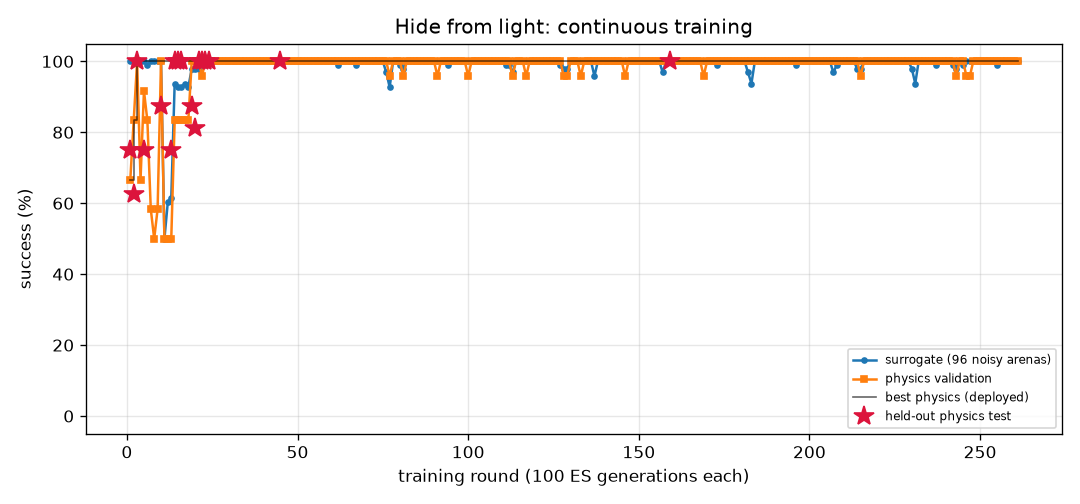
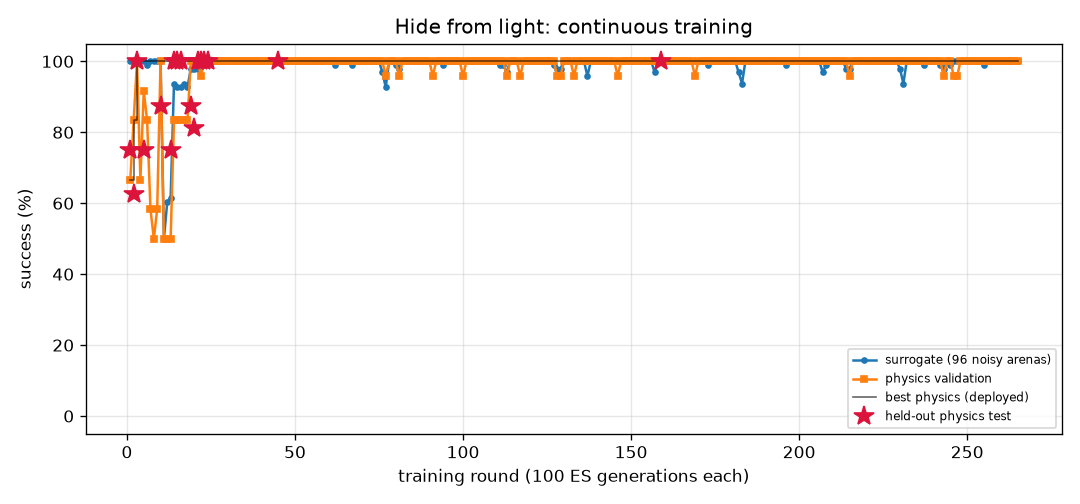
FlyLab: continuous training progress
- walk_forward: optimal, physics val 100% of 24, round 118
- turn: optimal, physics val 100% of 24, round 532
- goto: optimal, physics val 100% of 24, round 112
- odor_seek: optimal, physics val 100% of 24, round 107
- odor_avoid: optimal, physics val 100% of 24, round 531
- light_seek: optimal, physics val 100% of 24, round 297
- light_avoid: optimal, physics val 100% of 24, round 265

diff --git a/projects/09_flylab/training/light_avoid/REPORT.md b/projects/09_flylab/training/light_avoid/REPORT.md
@@ -1,14 +1,14 @@
 # Hide from light (`light_avoid`) — training report
 
-*Auto-generated by `train_brains.py`, last updated 2026-10-17T18:48:39.*
+*Auto-generated by `train_brains.py`, last updated 2026-10-18T12:55:45.*
 
 ![curve](curve.png)
 
 | | |
 |---|---|
-| rounds | 261 |
-| ES generations | 26100 |
-| physics runs | 6536 |
+| rounds | 265 |
+| ES generations | 26500 |
+| physics runs | 6632 |
 | status | **optimal** |
 | best brain | round 159: physics validation **100%** on 24 arenas, surrogate 100% |
 | held-out physics test | **100%** on 32 unseen arenas (95% CI 89%-100%) (errors: [14.4, 56.1, 58.0, 57.9, 57.5, 14.0, 14.4, 56.6, 56.8, 13.3, 14.1, 56.6, 57.6, 13.1, 57.3, 55.9, 57.2, 55.0, 55.2, 53.9, 55.2, 12.4, 53.8, 53.7, 14.1, 13.7, 55.0, 57.8, 56.2, 13.1, 52.8, 56.5]) |
@@ -17,10 +17,6 @@ Physics error per arena: mm gained away from source (> 6 without first approachi
 
 | round | level | gens | sigma | surrogate | physics val | val errors | test | note |
 |---:|---:|---:|---:|---:|---:|---|---:|---|
-| 222 | 3 | 22200 | 0.024 | 100% | 100% | [50.2, 55.2, 55.0, 51.4, 55.9, 52.0, 53.3, 14.5, 51.2, 13.5, 55.0, 55.8, 14.4, 53.3, 55.0, 52.1, 14.2, 56.1, 55.6, 14.4, 53.0, 55.1, 53.5, 55.2] |  |  |
-| 223 | 3 | 22300 | 0.024 | 100% | 100% | [53.8, 56.1, 56.2, 54.1, 52.0, 54.1, 56.1, 14.5, 47.7, 13.5, 53.8, 51.4, 14.4, 50.8, 56.0, 54.2, 14.2, 53.3, 56.0, 14.4, 53.6, 53.9, 56.3, 50.6] |  | restart from best |
-| 224 | 3 | 22400 | 0.024 | 100% | 100% | [47.3, 47.9, 47.5, 47.5, 48.7, 47.6, 45.2, 14.5, 45.9, 13.2, 49.0, 48.7, 14.4, 48.2, 47.5, 48.6, 14.2, 49.1, 47.7, 14.4, 46.3, 48.8, 46.1, 48.5] |  |  |
-| 225 | 3 | 22500 | 0.024 | 100% | 100% | [40.8, 43.3, 43.8, 39.9, 39.0, 38.6, 44.3, 14.5, 38.2, 13.3, 43.3, 38.2, 14.4, 41.0, 42.7, 41.3, 14.2, 38.5, 40.8, 14.4, 41.2, 42.5, 44.2, 37.2] |  |  |
 | 226 | 3 | 22600 | 0.024 | 100% | 100% | [47.5, 50.4, 50.7, 47.4, 46.6, 45.6, 50.7, 14.5, 42.3, 13.4, 44.9, 46.0, 14.4, 46.4, 50.6, 46.2, 14.2, 47.3, 50.6, 14.4, 45.3, 47.3, 49.8, 45.1] |  |  |
 | 227 | 3 | 22700 | 0.024 | 100% | 100% | [51.7, 53.5, 53.2, 51.6, 53.1, 52.6, 52.1, 14.5, 46.9, 13.5, 51.0, 52.8, 14.4, 52.4, 53.4, 50.8, 14.2, 53.4, 53.8, 14.4, 49.9, 52.4, 51.6, 52.4] |  | restart from best |
 | 228 | 3 | 22800 | 0.024 | 100% | 100% | [54.8, 59.5, 59.2, 55.7, 59.6, 55.9, 57.8, 14.5, 55.7, 13.3, 58.5, 59.4, 14.3, 58.3, 59.3, 54.3, 14.2, 60.0, 59.6, 14.4, 57.5, 58.7, 57.8, 58.9] |  |  |
@@ -57,3 +53,7 @@ Physics error per arena: mm gained away from source (> 6 without first approachi
 | 259 | 3 | 25900 | 0.024 | 100% | 100% | [47.8, 52.3, 51.9, 49.3, 53.4, 49.3, 50.1, 14.5, 50.6, 13.4, 52.4, 53.2, 14.4, 51.7, 52.1, 49.3, 14.2, 53.6, 52.6, 14.4, 46.1, 52.6, 49.9, 52.7] |  | restart from best |
 | 260 | 3 | 26000 | 0.024 | 100% | 100% | [38.4, 37.3, 35.3, 37.3, 38.6, 39.0, 35.1, 14.5, 35.1, 13.3, 39.3, 38.6, 14.4, 38.4, 35.4, 38.2, 14.2, 38.5, 38.4, 14.4, 40.3, 37.6, 33.3, 38.0] |  |  |
 | 261 | 3 | 26100 | 0.024 | 100% | 100% | [40.1, 42.6, 41.3, 42.0, 44.7, 42.4, 40.1, 14.5, 41.3, 13.2, 43.3, 44.6, 14.4, 44.7, 42.4, 42.5, 14.2, 44.7, 43.5, 14.4, 42.2, 43.8, 39.7, 44.0] |  |  |
+| 262 | 3 | 26200 | 0.024 | 100% | 100% | [50.2, 52.6, 52.8, 50.4, 49.0, 49.9, 52.8, 14.5, 45.8, 13.2, 47.4, 48.5, 14.4, 47.9, 52.8, 50.1, 14.2, 49.9, 52.7, 14.4, 49.6, 48.6, 52.3, 47.7] |  |  |
+| 263 | 3 | 26300 | 0.024 | 100% | 100% | [57.3, 60.8, 60.5, 57.7, 60.1, 57.0, 59.3, 14.5, 54.2, 13.3, 59.3, 59.9, 14.4, 57.4, 60.6, 56.4, 14.2, 60.6, 61.0, 14.4, 55.7, 59.3, 59.1, 59.3] |  | restart from best |
+| 264 | 3 | 26400 | 0.024 | 100% | 100% | [48.8, 49.9, 50.2, 48.3, 44.5, 47.7, 50.8, 14.5, 46.8, 13.4, 46.3, 44.6, 14.4, 45.2, 50.3, 48.1, 14.2, 46.2, 48.9, 14.4, 45.7, 47.4, 49.7, 43.0] |  |  |
+| 265 | 3 | 26500 | 0.024 | 100% | 100% | [58.9, 60.8, 60.6, 58.5, 59.4, 58.6, 59.7, 14.5, 56.7, 13.3, 59.8, 59.0, 14.4, 56.6, 60.8, 58.2, 14.2, 60.2, 61.1, 14.4, 56.4, 59.4, 59.4, 58.3] |  |  |

diff --git a/projects/09_flylab/training/light_seek/REPORT.md b/projects/09_flylab/training/light_seek/REPORT.md
@@ -1,14 +1,14 @@
 # Walk toward light (`light_seek`) — training report
 
-*Auto-generated by `train_brains.py`, last updated 2026-10-17T18:57:52.*
+*Auto-generated by `train_brains.py`, last updated 2026-10-18T12:38:41.*
 
 ![curve](curve.png)
 
 | | |
 |---|---|
-| rounds | 296 |
-| ES generations | 29600 |
-| physics runs | 3952 |
+| rounds | 297 |
+| ES generations | 29700 |
+| physics runs | 3976 |
 | status | **optimal** |
 | best brain | round 295: physics validation **100%** on 24 arenas, surrogate 100% |
 | held-out physics test | **100%** on 32 unseen arenas (95% CI 89%-100%) (errors: [0.58, 0.62, 0.61, 0.63, 0.65, 0.65, 0.73, 0.55, 0.64, 0.59, 0.59, 0.58, 0.69, 0.61, 0.59, 0.6, 0.6, 0.63, 0.59, 0.64, 0.61, 1.11, 0.62, 0.58, 0.58, 0.58, 0.67, 0.63, 0.58, 0.66, 0.67, 0.59]) |
@@ -17,7 +17,6 @@ Physics error per arena: mm from target at the end (< 1.5 and standing still = s
 
 | round | level | gens | sigma | surrogate | physics val | val errors | test | note |
 |---:|---:|---:|---:|---:|---:|---|---:|---|
-| 257 | 3 | 25700 | 0.024 | 100% | 100% | [0.63, 0.46, 0.53, 0.47, 0.45, 0.59, 0.65, 0.59, 0.56, 0.49, 0.42, 0.57, 0.43, 0.55, 0.42, 0.51, 0.54, 0.56, 0.54, 0.51, 0.72, 1.01, 0.6, 0.96] |  |  |
 | 258 | 3 | 25800 | 0.024 | 100% | 100% | [0.48, 0.49, 0.43, 0.95, 0.43, 0.7, 0.51, 0.57, 0.51, 0.44, 0.44, 0.42, 0.45, 0.45, 0.43, 0.44, 0.47, 0.51, 0.47, 0.44, 0.43, 1.12, 0.44, 0.68] |  |  |
 | 259 | 3 | 25900 | 0.024 | 100% | 100% | [1.12, 0.48, 0.44, 0.47, 0.46, 0.97, 0.64, 0.55, 1.06, 0.43, 0.49, 0.62, 0.47, 0.8, 0.53, 0.65, 0.67, 0.66, 0.48, 0.55, 0.56, 1.05, 0.56, 0.42] |  | restart from best |
 | 260 | 3 | 26000 | 0.024 | 100% | 100% | [0.48, 0.52, 0.48, 1.19, 0.46, 0.47, 0.47, 0.48, 0.46, 0.48, 0.49, 0.47, 0.51, 0.57, 0.79, 0.46, 0.46, 0.92, 0.57, 0.49, 0.86, 0.52, 0.56, 0.49] |  |  |
@@ -57,3 +56,4 @@ Physics error per arena: mm from target at the end (< 1.5 and standing still = s
 | 294 | 3 | 29400 | 0.024 | 100% | 100% | [0.67, 0.65, 0.65, 0.67, 0.67, 0.62, 0.63, 0.59, 0.68, 0.58, 0.71, 0.69, 0.65, 0.74, 0.68, 0.61, 0.63, 0.66, 0.64, 0.67, 0.74, 0.68, 0.62, 0.73] | 100% | new best |
 | 295 | 3 | 29500 | 0.024 | 100% | 100% | [0.53, 0.58, 0.65, 0.58, 0.68, 0.6, 0.63, 0.66, 0.69, 0.62, 0.63, 0.63, 0.6, 0.65, 0.61, 0.59, 0.67, 0.77, 0.62, 0.65, 0.61, 0.64, 0.64, 0.62] | 100% | new best |
 | 296 | 3 | 29600 | 0.024 | 100% | 100% | [0.51, 0.5, 0.51, 0.65, 0.76, 0.5, 0.57, 0.53, 0.49, 0.83, 0.53, 0.49, 0.51, 0.53, 0.74, 0.49, 0.6, 0.81, 0.65, 0.7, 0.48, 0.72, 0.51, 0.56] |  |  |
+| 297 | 3 | 29700 | 0.024 | 100% | 100% | [0.85, 0.79, 0.53, 0.58, 0.49, 0.59, 0.47, 0.52, 0.51, 0.59, 0.49, 0.51, 0.55, 0.55, 0.6, 0.54, 0.59, 0.47, 0.55, 0.52, 0.46, 0.86, 0.82, 0.6] |  |  |

diff --git a/projects/09_flylab/training/odor_avoid/REPORT.md b/projects/09_flylab/training/odor_avoid/REPORT.md
@@ -1,14 +1,14 @@
 # Escape a bad smell (`odor_avoid`) — training report
 
-*Auto-generated by `train_brains.py`, last updated 2026-10-18T11:52:35.*
+*Auto-generated by `train_brains.py`, last updated 2026-10-18T12:11:23.*
 
 ![curve](curve.png)
 
 | | |
 |---|---|
-| rounds | 530 |
-| ES generations | 53000 |
-| physics runs | 10026 |
+| rounds | 531 |
+| ES generations | 53100 |
+| physics runs | 10050 |
 | status | **optimal** |
 | best brain | round 373: physics validation **100%** on 24 arenas, surrogate 97% |
 | held-out physics test | **97%** on 32 unseen arenas (95% CI 84%-99%) (errors: [62.0, 57.4, 62.6, 61.9, 59.0, 61.6, 56.5, 60.7, 31.7, 60.9, 63.1, 57.1, 61.1, 62.1, 61.5, 60.2, 62.2, 55.2, 62.1, 54.2, 61.3, 62.0, 58.0, 61.9, 59.8, 56.5, 56.3, 56.4, 56.3, 57.7, 61.9, 32.4]) |
@@ -17,7 +17,6 @@ Physics error per arena: mm gained away from source (> 6 without first approachi
 
 | round | level | gens | sigma | surrogate | physics val | val errors | test | note |
 |---:|---:|---:|---:|---:|---:|---|---:|---|
-| 491 | 3 | 49100 | 0.026 | 95% | 100% | [63.6, 57.8, 56.4, 61.4, 62.7, 62.1, 62.5, 48.8, 60.2, 60.7, 61.9, 62.3, 51.5, 56.2, 42.9, 61.4, 62.4, 61.0, 55.5, 57.9, 62.1, 59.9, 56.2, 58.4] |  |  |
 | 492 | 3 | 49200 | 0.027 | 96% | 96% | [63.2, 58.8, 56.3, 61.5, 61.7, 62.1, 61.6, 58.5, 60.7, 55.6, 47.1, 62.0, 51.2, 55.5, 41.2, 60.5, 62.4, 61.5, 55.2, 55.2, 62.5, 58.5, 58.9, 58.3] |  |  |
 | 493 | 3 | 49300 | 0.026 | 94% | 96% | [63.5, 55.8, 56.1, 56.5, 60.9, 60.8, 60.6, 58.0, 60.9, 59.8, 55.6, 61.2, 51.1, 57.2, 41.9, 60.6, 61.7, 61.9, 55.3, 58.4, 61.4, 53.9, 61.9, 53.1] |  | restart from best |
 | 494 | 3 | 49400 | 0.026 | 98% | 96% | [62.7, 60.3, 56.3, 60.8, 62.3, 41.5, 62.2, 40.2, 62.0, 39.1, 38.2, 61.9, 51.6, 56.7, 39.0, 61.9, 62.2, 61.3, 54.5, 56.7, 62.2, 46.4, 60.0, 36.2] |  |  |
@@ -57,3 +56,4 @@ Physics error per arena: mm gained away from source (> 6 without first approachi
 | 528 | 3 | 52800 | 0.026 | 97% | 96% | [63.7, 61.5, 56.2, 60.0, 62.4, 62.4, 61.8, 50.8, 61.6, 61.8, 61.6, 62.3, 54.9, 56.0, 37.5, 61.7, 62.0, 62.6, 55.1, 59.9, 62.6, 62.3, 59.7, 62.2] |  |  |
 | 529 | 3 | 52900 | 0.026 | 96% | 96% | [63.4, 61.3, 55.9, 58.8, 61.7, 62.8, 62.8, 62.9, 61.0, 61.4, 61.3, 62.6, 54.7, 57.9, 44.7, 62.7, 62.5, 62.5, 55.4, 56.5, 62.6, 62.8, 58.6, 63.5] |  | restart from best |
 | 530 | 3 | 53000 | 0.026 | 97% | 96% | [62.4, 60.4, 55.7, 61.0, 62.2, 60.8, 60.4, 53.4, 60.4, 60.4, 62.4, 62.1, 54.6, 56.8, 41.4, 61.7, 62.1, 62.3, 55.4, 56.7, 61.8, 60.7, 60.7, 45.6] |  |  |
+| 531 | 3 | 53100 | 0.026 | 96% | 96% | [63.4, 60.3, 56.1, 61.0, 62.3, 62.5, 61.4, 58.2, 60.1, 62.1, 61.3, 61.8, 52.2, 55.6, 44.6, 62.1, 62.5, 62.5, 55.4, 56.6, 62.0, 62.0, 59.1, 60.3] |  |  |

diff --git a/projects/09_flylab/training/TRAINING.md b/projects/09_flylab/training/TRAINING.md
@@ -1,6 +1,6 @@
 # FlyLab brains — continuous training log
 
-*Auto-generated by `train_brains.py`, last updated 2026-10-18T11:52:35.*
+*Auto-generated by `train_brains.py`, last updated 2026-10-18T12:55:45.*
 
 Every skill has its own brain and its own training process: surrogate ES rounds, physics validation in MuJoCo, keep-the-best selection, and a held-out physics test that is never used for selection. See each skill's report for its full round-by-round history. Mastery is progressive: passing a level (100% physics validation, >=95% surrogate) doubles the validation and test arena sets; a brain is **optimal** once it holds up at level 3 (>=95% of 24 validation arenas) AND scores >=90% on the 32 held-out test arenas. Test columns show 95% Wilson confidence intervals.
 
@@ -10,6 +10,6 @@ Every skill has its own brain and its own training process: surrogate ES rounds,
 | [Turn in place](turn/REPORT.md) | 532 | 53200 | 13014 | 100% | 100% of 24 | 97% of 32 (CI 84-99%) | **optimal** |
 | [Go to a location](goto/REPORT.md) | 112 | 11200 | 2574 | 100% | 100% of 24 | 100% of 32 (CI 89-100%) | **optimal** |
 | [Find food by smell](odor_seek/REPORT.md) | 107 | 10700 | 1934 | 100% | 100% of 24 | 100% of 32 (CI 89-100%) | **optimal** |
-| [Escape a bad smell](odor_avoid/REPORT.md) | 530 | 53000 | 10026 | 97% | 100% of 24 | 97% of 32 (CI 84-99%) | **optimal** |
-| [Walk toward light](light_seek/REPORT.md) | 296 | 29600 | 3952 | 100% | 100% of 24 | 100% of 32 (CI 89-100%) | **optimal** |
-| [Hide from light](light_avoid/REPORT.md) | 261 | 26100 | 6536 | 100% | 100% of 24 | 100% of 32 (CI 89-100%) | **optimal** |
+| [Escape a bad smell](odor_avoid/REPORT.md) | 531 | 53100 | 10050 | 97% | 100% of 24 | 97% of 32 (CI 84-99%) | **optimal** |
+| [Walk toward light](light_seek/REPORT.md) | 297 | 29700 | 3976 | 100% | 100% of 24 | 100% of 32 (CI 89-100%) | **optimal** |
+| [Hide from light](light_avoid/REPORT.md) | 265 | 26500 | 6632 | 100% | 100% of 24 | 100% of 32 (CI 89-100%) | **optimal** |
